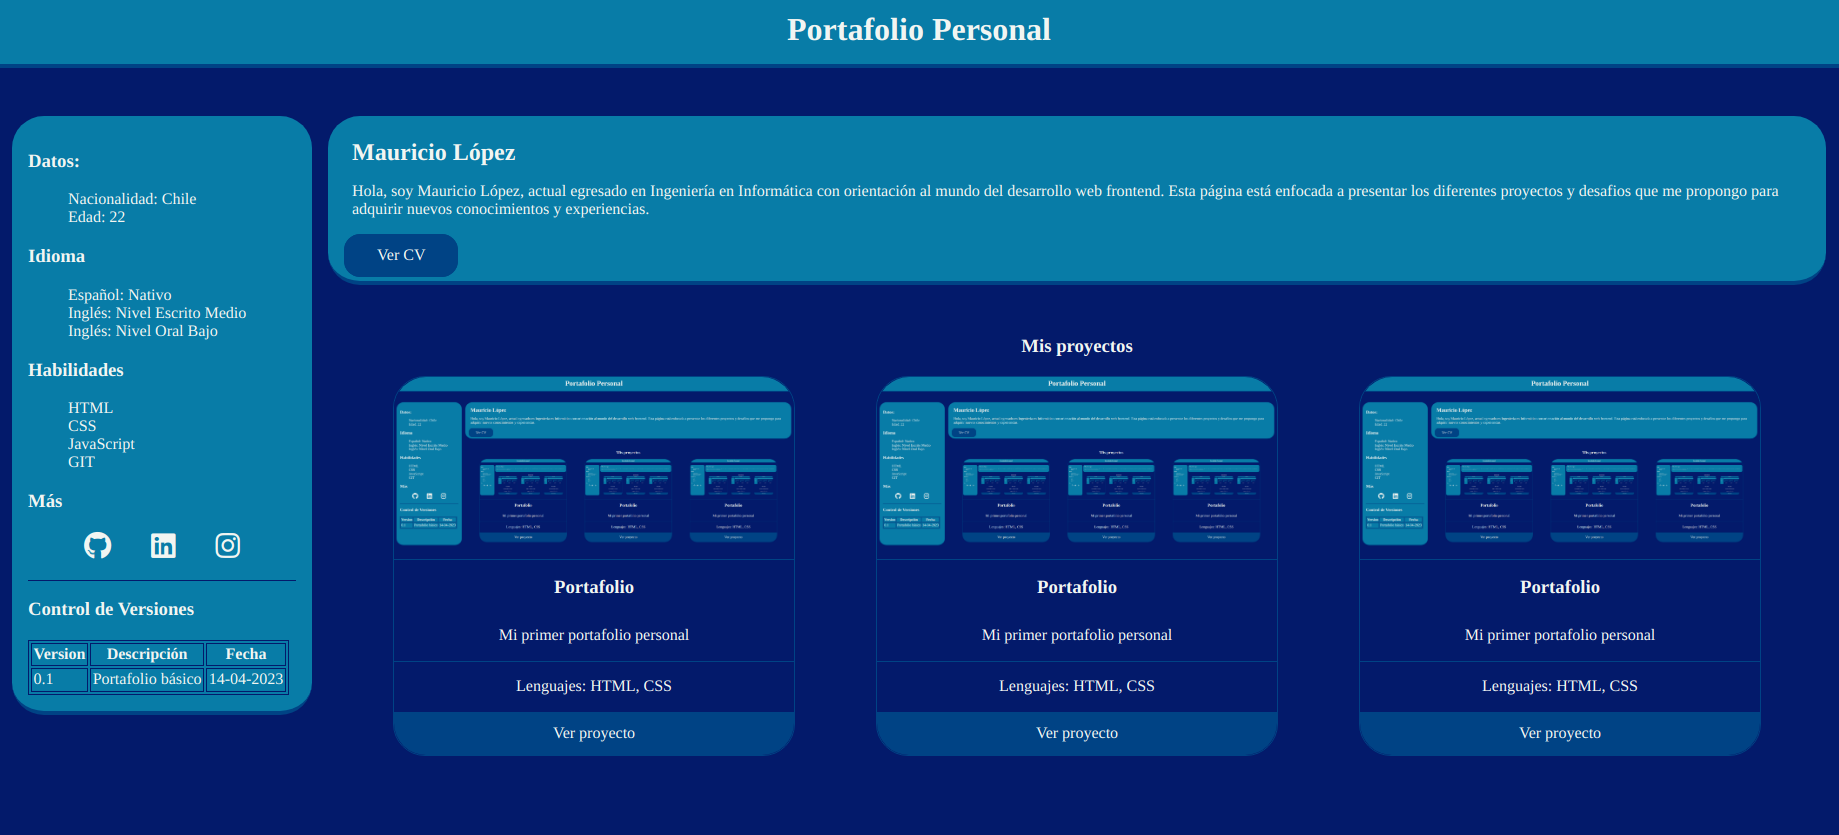
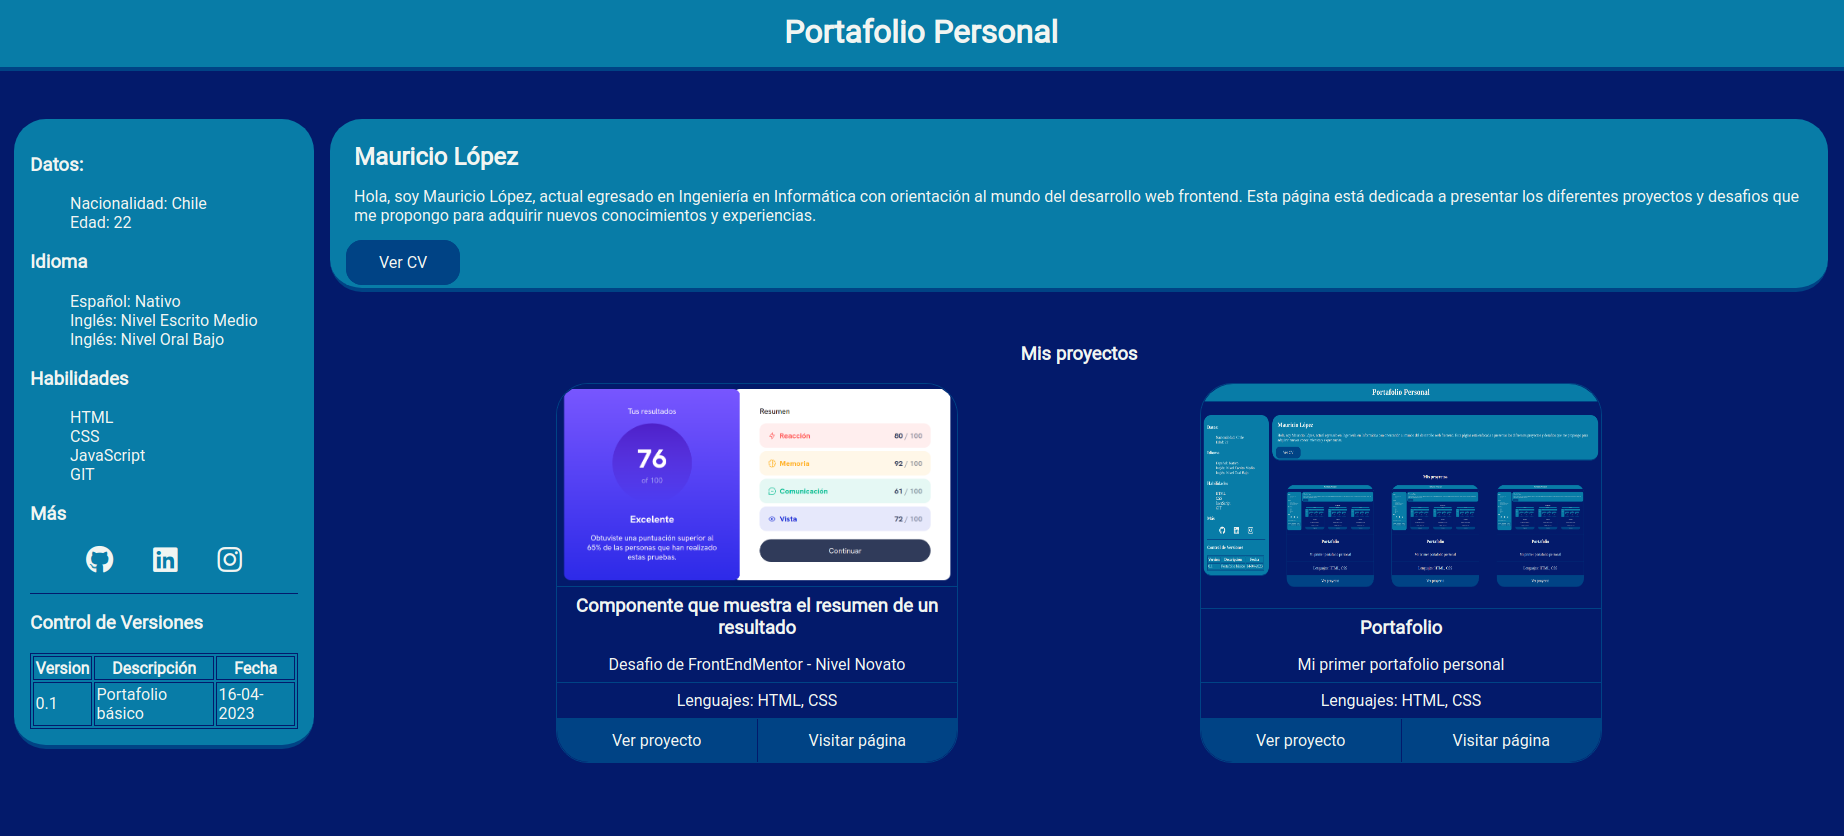
Añadido Primer desafio a rama proyectos

diff --git a/index.html b/index.html
@@ -90,13 +90,32 @@
             <h3>Mis proyectos</h3>
             <div class="main__container_cards">
                 <div class="main__card">
+                    <img src="img/project/desafioComponenteResumenResultado.png" alt="">
+                    <div class="main__card_info">
+                        <h3>Componente que muestra el resumen de un resultado</h3>
+                        <div class="main__card_text">
+                            <p>Desafio de FrontEndMentor - Nivel Novato</p>
+                            <p>Lenguajes: HTML, CSS</p>
+                        </div>
+                    </div>
+                    <div class="main__card_btn">
+                        <a class="main__btn btn_primary" href="https://github.com/dev-mlopez/dev-mlopez.github.io/tree/main/desafioComponenteResumenResultado">Ver proyecto</a>
+                        <a class="main__btn btn_secondary" href="https://dev-mlopez.github.io/desafioComponenteResumenResultado/">Visitar página</a>
+                    </div>
+                </div>
+                <div class="main__card">
                     <img src="img/project/personalPortafolio.png" alt="">
                     <div class="main__card_info">
                         <h3>Portafolio</h3>
-                        <p>Mi primer portafolio personal</p>
-                        <p>Lenguajes: HTML, CSS</p>
+                        <div class="main__card_text">
+                            <p>Mi primer portafolio personal</p>
+                            <p>Lenguajes: HTML, CSS</p>
+                        </div>
                     </div>
-                    <a href="https://github.com/dev-mlopez/dev-mlopez.github.io">Ver proyecto</a>
+                    <div class="main__card_btn">
+                        <a class="main__btn btn_primary" href="https://github.com/dev-mlopez/dev-mlopez.github.io">Ver proyecto</a>
+                        <a class="main__btn btn_secondary" href="https://dev-mlopez.github.io/">Visitar página</a>
+                    </div>
                 </div>
             </div>
         </section>

diff --git a/css/style.css b/css/style.css
@@ -123,8 +123,10 @@ h1 {
 }
 
 .main__card {
-    border-radius: 2rem;
     position: relative;
+    display: flex;
+    flex-direction: column;
+    border-radius: 2rem;
     width: 400px;
     border: 1px solid #004385;
 }
@@ -133,27 +135,45 @@ h1 {
     border-top-right-radius: 2rem;
     border-top-left-radius: 2rem;
     width: 100%;
+    height: 100%;
     border-bottom: 1px solid #004385;
 }
 
 .main__card_info h3 {
     margin: 0;
-    padding: .75rem;
+    padding: .5rem;
+}
+
+.main__card_text {
+    display: flex;
+    flex-direction: column;
+    justify-content: center;
 }
 
 .main__card_info p {
     border-bottom: 1px solid #004385;
     margin: 0;
-    padding: 1rem;
+    padding: .5rem;
 }
 
-.main__card a {
-    display: block;
+.main__card_btn {
+    display: flex;
+}
+
+.main__btn {
+    width: 50%;
     padding: .75rem;
     text-decoration: none;
     background-color: #004385;
     color: #F1F5F2;
+}
+
+.btn_primary {
+    border-right: 1px solid #031A6B;
     border-bottom-left-radius: 2rem;
+}
+
+.btn_secondary {
     border-bottom-right-radius: 2rem;
 }
 

diff --git a/desafioComponenteResumenResultado/css/style.css b/desafioComponenteResumenResultado/css/style.css
@@ -3,6 +3,7 @@ body {
     margin: 0;
     font-family: 'Hanken Grotesk', sans-serif;
     font-size: 18px;
+    background-color: #031A6B;
 }
 
 .container {
